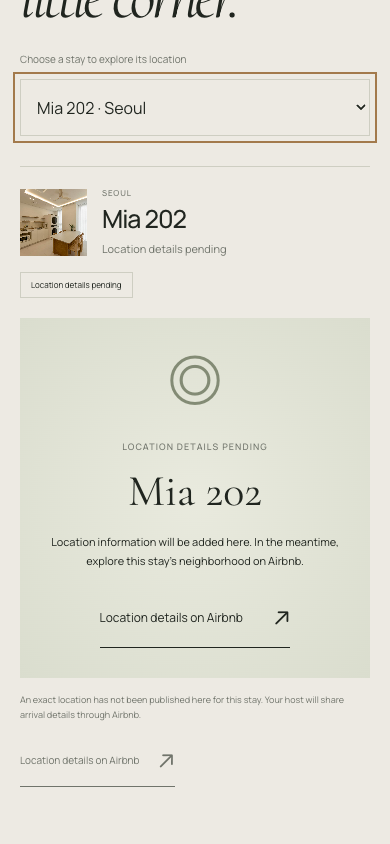
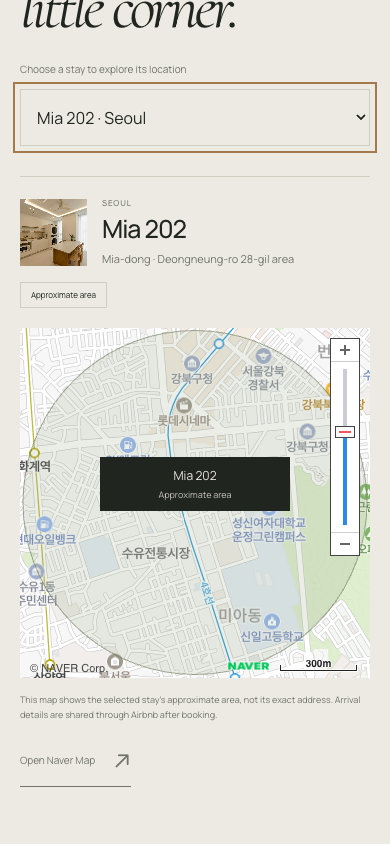
지도

diff --git a/sample-02-serenity/content.js b/sample-02-serenity/content.js
@@ -116,7 +116,15 @@ window.SERENITY = {
           "comfort201Copy"
         ]
       ],
-      "location": null
+      "location": {
+        "precision": "area",
+        "latitude": 37.6324,
+        "longitude": 127.0244,
+        "zoom": 15,
+        "area": "miaTemporaryArea",
+        "description": "miaTemporaryDescription",
+        "naverUrl": "https://map.naver.com/p/search/%EC%84%9C%EC%9A%B8%ED%8A%B9%EB%B3%84%EC%8B%9C%20%EA%B0%95%EB%B6%81%EA%B5%AC%20%EB%8D%95%EB%A6%89%EB%A1%9C28%EA%B8%B8"
+      }
     },
     {
       "id": "mia202",
@@ -202,7 +210,15 @@ window.SERENITY = {
           "comfort202Copy"
         ]
       ],
-      "location": null
+      "location": {
+        "precision": "area",
+        "latitude": 37.6324,
+        "longitude": 127.0244,
+        "zoom": 15,
+        "area": "miaTemporaryArea",
+        "description": "miaTemporaryDescription",
+        "naverUrl": "https://map.naver.com/p/search/%EC%84%9C%EC%9A%B8%ED%8A%B9%EB%B3%84%EC%8B%9C%20%EA%B0%95%EB%B6%81%EA%B5%AC%20%EB%8D%95%EB%A6%89%EB%A1%9C28%EA%B8%B8"
+      }
     },
     {
       "id": "busan",
@@ -393,11 +409,14 @@ window.SERENITY = {
       "locationPending": "Location details pending",
       "locationSoon": "Location to be announced",
       "mapPending": "Location information will be added here. In the meantime, explore this stay’s neighborhood on Airbnb.",
-      "mapSoon": "A new address, a new chapter. The location will be revealed with our opening details.",
+      "mapSoon": "Our Busan stay is getting ready. The location and opening details will be shared here when ready.",
       "mapExactNote": "This map shows the selected stay’s location. Check your Airbnb arrival instructions for entrance details.",
       "mapAreaNote": "This map shows the selected stay’s approximate area, not its exact address. Arrival details are shared through Airbnb after booking.",
       "mapPendingNote": "An exact location has not been published here for this stay. Your host will share arrival details through Airbnb.",
-      "mapAirbnb": "Location details on Airbnb"
+      "mapAirbnb": "Location details on Airbnb",
+      "miaTemporaryArea": "Mia-dong · Deongneung-ro 28-gil area",
+      "miaTemporaryDescription": "A temporary neighborhood guide around Deongneung-ro 28-gil in Mia-dong, Seoul. The map shows an approximate area; your exact arrival details will be shared through Airbnb.",
+      "mapSoonTitle": "Coming soon"
     },
     "zh": {
       "pageTitle": "Serenity Stay — 感受韩国的慢时光",
@@ -573,11 +592,14 @@ window.SERENITY = {
       "locationPending": "位置信息待更新",
       "locationSoon": "位置尚未公布",
       "mapPending": "位置信息将更新至此。您可以先在此房源的 Airbnb 页面了解周边区域。",
-      "mapSoon": "新的地址，新的故事。位置将随开业信息一同公布。",
+      "mapSoon": "我们的釜山住宿正在筹备中。具体位置与开业信息将于准备就绪后在此公布。",
       "mapExactNote": "地图显示所选房源的位置。入口等详细信息请查看 Airbnb 入住指引。",
       "mapAreaNote": "地图显示所选房源的大致区域，并非准确地址。预订后，房东会通过 Airbnb 提供抵达信息。",
       "mapPendingNote": "此房源尚未在这里公布准确位置。房东将通过 Airbnb 提供入住信息。",
-      "mapAirbnb": "在 Airbnb 查看位置"
+      "mapAirbnb": "在 Airbnb 查看位置",
+      "miaTemporaryArea": "弥阿洞 · Deongneung-ro 28-gil 周边",
+      "miaTemporaryDescription": "暂以首尔弥阿洞 Deongneung-ro 28-gil 周边作为区域参考。地图显示大致范围，准确入住地址将通过 Airbnb 提供。",
+      "mapSoonTitle": "即将启幕"
     },
     "ko": {
       "pageTitle": "Serenity Stay — 한국에서 만나는 느린 쉼",
@@ -753,11 +775,14 @@ window.SERENITY = {
       "locationPending": "위치 정보 준비 중",
       "locationSoon": "위치 공개 예정",
       "mapPending": "위치 정보를 준비하고 있습니다. 먼저 이 숙소의 에어비앤비에서 주변 지역을 확인해 주세요.",
-      "mapSoon": "새로운 주소에서 시작될 이야기. 오픈 소식과 함께 위치를 공개할 예정입니다.",
+      "mapSoon": "부산 숙소는 현재 오픈을 준비하고 있습니다. 준비가 완료되면 위치와 오픈 소식을 이곳에서 안내하겠습니다.",
       "mapExactNote": "선택한 숙소의 위치입니다. 출입구 등 자세한 도착 안내는 에어비앤비 메시지를 확인해 주세요.",
       "mapAreaNote": "선택한 숙소의 대략적인 주변 지역이며 정확한 주소는 아닙니다. 도착 안내는 예약 후 에어비앤비를 통해 전달됩니다.",
       "mapPendingNote": "이 숙소의 정확한 위치는 아직 이곳에 공개되지 않았습니다. 도착 안내는 호스트가 에어비앤비로 전달합니다.",
-      "mapAirbnb": "에어비앤비에서 위치 확인"
+      "mapAirbnb": "에어비앤비에서 위치 확인",
+      "miaTemporaryArea": "미아동 · 덕릉로28길 주변",
+      "miaTemporaryDescription": "서울 미아동 덕릉로28길 주변을 임시로 안내합니다. 지도는 대략적인 지역이며, 정확한 도착 정보는 에어비앤비를 통해 전달됩니다.",
+      "mapSoonTitle": "오픈 준비 중"
     }
   }
 };

diff --git a/sample-02-serenity/app.js b/sample-02-serenity/app.js
@@ -84,7 +84,7 @@
     }
   });
   window.addEventListener('scroll', queueFrame, { passive: true });
-  window.addEventListener('resize', queueFrame, { passive: true });
+  window.addEventListener('resize', () => { resizeMap(); queueFrame(); }, { passive: true });
   document.fonts.ready.then(queueFrame);
   document.documentElement.classList.add('motion-ready');
 
@@ -153,7 +153,7 @@
     $('#gallery-thumbs').innerHTML = stay.photos.map(([src, caption], index) => `<button data-gallery-photo="${index}" aria-label="${escape(`${index + 1}. ${t(caption)}`)}" aria-pressed="${index === photoIndex}"><img src="${escape(src)}" alt="" loading="lazy" width="90" height="70"></button>`).join('');
     $('#dialog-book').href = stay.airbnb;
     $('#dialog-area-description').textContent = t(stay.location?.description || 'areaDescription');
-    $('#dialog-address').textContent = stay.location?.address || t(stay.city);
+    $('#dialog-address').textContent = stay.location?.address || (stay.location?.area ? t(stay.location.area) : t(stay.city));
     $('#dialog-location-note').textContent = mapNoteFor(stay);
     renderGallery();
   }
@@ -327,10 +327,19 @@
     $('#map-stay').value = selectedMapStayId;
     renderMap();
   }
+  function resizeMap() {
+    const frame = $('#naver-map');
+    if (!naverMap || frame.hidden || mapState !== 'ready') return;
+    // setSize writes pixel dimensions inline. Measure the CSS layout on every resize.
+    frame.style.removeProperty('width');
+    frame.style.removeProperty('height');
+    naverMap.setSize(new window.naver.maps.Size(frame.clientWidth, frame.clientHeight));
+  }
   function renderMap() {
     const stay = site.stays.find((item) => item.id === selectedMapStayId);
     if (!stay) return;
     const located = hasLocation(stay);
+    const comingSoon = stay.status === 'soon' && !located;
     const location = stay.location;
     const name = stay.city === 'busan' && stay.id === 'busan' ? t('busan') : stay.name;
     const precision = located ? (location.precision === 'area' ? 'locationArea' : 'locationExact') : (stay.status === 'soon' ? 'locationSoon' : 'locationPending');
@@ -341,7 +350,8 @@
     $('#map-address').textContent = location?.address || (location?.area ? t(location.area) : t(precision));
     $('#map-precision').textContent = `${stay.status === 'soon' ? `${t('comingSoon')} · ` : ''}${t(precision)}`;
     $('#map-fallback-label').textContent = t(precision);
-    $('#map-fallback-title').textContent = name;
+    $('#map-fallback-title').textContent = comingSoon ? t('mapSoonTitle') : name;
+    $('#map-fallback').classList.toggle('is-coming-soon', comingSoon);
     $('#map-note').textContent = mapNoteFor(stay);
     $('#naver-map').setAttribute('aria-label', `${name} · ${t('mapRegion')} · ${t(precision)}`);
     const url = location?.naverUrl || stay.airbnb;
@@ -368,9 +378,7 @@
         mapMarker = new n.Marker({ position: center });
         mapArea = new n.Circle({ center, radius: 650, strokeColor: '#737e60', strokeWeight: 1, strokeOpacity: .65, fillColor: '#9ba889', fillOpacity: .2 });
       } else {
-        // A hidden map may have been resized while a location was pending.
-        const frame = $('#naver-map');
-        naverMap.setSize(new n.Size(frame.clientWidth, frame.clientHeight));
+        resizeMap();
       }
       naverMap.updateBy(center, zoom);
       mapMarker.setOptions({ position: center, title: `${name} · ${t(precision)}`, icon: { content: `<div class="naver-area-label">${escape(name)}<small>${escape(t(precision))}</small></div>`, anchor: new n.Point(95, 46) } });

diff --git a/sample-02-serenity/styles.css b/sample-02-serenity/styles.css
@@ -221,6 +221,10 @@ em { font-family:var(--serif); font-weight:400; }
 .map-fallback>.eyebrow { font-size:9px; color:var(--muted); }
 .map-fallback h3 { font:400 50px/1.1 var(--serif); margin-top:12px; }
 .map-fallback>p:not(.eyebrow) { font-size:12px; margin:18px 0; max-width:430px; }
+.map-fallback.is-coming-soon { background:var(--dark); color:var(--paper); }
+.map-fallback.is-coming-soon>.eyebrow { color:var(--cream); }
+.map-fallback.is-coming-soon .map-symbol { color:#cfaa78; }
+.map-fallback.is-coming-soon h3 { font-size:clamp(44px,6vw,76px); }
 .map-caption { display:flex; justify-content:space-between; align-items:center; gap:30px; padding-top:19px; font-size:10px; color:var(--muted); }
 .map-caption>.text-link { flex-shrink:0; font-size:10px; gap:18px; padding-block:5px; }
 .map-caption>p { max-width:780px; }

diff --git a/sample-02-serenity/index.html b/sample-02-serenity/index.html
@@ -11,10 +11,10 @@
   <meta property="og:type" content="website">
   <link rel="icon" type="image/png" href="assets/logo-wood.png">
   <link rel="stylesheet" href="assets/fonts.css">
-  <link rel="stylesheet" href="styles.css?v=4">
+  <link rel="stylesheet" href="styles.css?v=5.1">
   <link rel="preload" as="image" href="assets/mia-201-02.jpg" fetchpriority="high">
-  <script src="content.js?v=4" defer></script>
-  <script src="app.js?v=4" defer></script>
+  <script src="content.js?v=5.1" defer></script>
+  <script src="app.js?v=5.1" defer></script>
 </head>
 <body>
   <a class="skip-link" href="#main" data-i18n="skip">Skip to content</a>

diff --git a/sample-02-serenity/README.md b/sample-02-serenity/README.md
@@ -77,7 +77,11 @@ hero: {
 
 `map`에는 제공된 공개 Client ID만 공통으로 남겨두었습니다. 기존의 단일 미아역 좌표와 모든 숙소가 같은 동네라는 설명을 삭제했습니다. 주소·좌표·링크는 각각 `stays[].location`에서 관리합니다.
 
-**현재 실제 데이터는 3곳 모두 `location: null`입니다.** 각 숙소의 정확한 주소 또는 네이버 지도 링크를 확인하기 전에는 임의 좌표를 넣지 않습니다. 서울 숙소는 해당 Airbnb의 위치 정보 링크를 제공하고, 부산은 위치 공개 예정으로 표시합니다.
+**현재 서울 두 숙소는 사용자가 지정한 참고 주소 주변을 임시 지역으로 표시합니다.** 기준은 서울특별시 강북구 덕릉로28길 52-4(미아동)이며, 좌표는 약 `37.6324, 127.0244`, `precision: 'area'`입니다. 두 숙소의 정확한 건물 위치를 의미하지 않습니다. 각각 별도 `location` 객체를 유지하므로 추후 개별 위치로 변경할 수 있습니다. 외부 네이버 링크는 덕릉로28길 주변 검색입니다.
+
+좌표 참고: [공개 주소 지도](https://findby.co.kr/details/01128-113054124037-st-652b0c498c641f9e388b4c80)의 해당 주소 중심 좌표를 반올림했습니다. 실제 숙소명이나 주소로 다른 시설 정보를 가져오지 않았습니다.
+
+부산은 `location: null`을 유지하며, 지도 자리에는 큰 Coming soon / 即将启幕 / 오픈 준비 중 제목과 위치 공개 예정 안내를 표시합니다. 지도·예약·Airbnb 위치 링크는 표시하지 않습니다.
 
 숙소의 위치가 확인되면 다음 형식을 채웁니다. `null`을 실제 확인된 숫자 좌표로 교체하기 전까지는 지도를 표시하지 않습니다.
 
@@ -97,12 +101,12 @@ location: {
 - `location: null` 또는 유효하지 않은 좌표: 이전 숙소의 지도·마커를 숨기고 현재 숙소 안내를 표시합니다.
 - 주소·네이버 링크만 있고 좌표가 없는 경우: 주소와 외부 링크는 사용할 수 있으며 내장 지도는 대기 상태입니다.
 - 지도 위의 숙소 선택, 이름·주소·링크, 상세 창 이용 안내는 같은 숙소 데이터를 사용합니다. 언어를 바꿔도 선택한 숙소가 유지됩니다.
-- SDK와 지도 인스턴스는 하나만 사용하고, 선택에 따라 중심·마커·영역을 갱신합니다. SDK 로딩 중 선택을 바꿔도 마지막 선택이 적용됩니다.
+- SDK와 지도 인스턴스는 하나만 사용하고, 선택에 따라 중심·마커·영역을 갱신합니다. 화면 크기 변경과 숨김 후 복귀 시 SDK의 픽셀 크기를 다시 계산하여 모바일 너비가 데스크톱에 남지 않도록 처리합니다. SDK 로딩 중 선택을 바꿔도 마지막 선택이 적용됩니다.
 - 인증·네트워크 오류·12초 시간 초과 시에도 선택한 숙소의 네이버 링크 또는 Airbnb 링크를 제공합니다. 위치가 없는 숙소를 대신 임의 지역에 표시하지 않습니다.
 
-공식 JavaScript v3 SDK의 `ncpKeyId` 방식으로 로드합니다. 유효한 좌표가 있는 숙소를 선택하거나 해당 지도 영역에 가까워질 때 연결합니다. 공개 주소를 확인하지 못한 현재 데이터에서는 불필요한 SDK 연결을 하지 않습니다.
+공식 JavaScript v3 SDK의 `ncpKeyId` 방식으로 로드합니다. 유효한 좌표가 있는 숙소를 선택하거나 해당 지도 영역에 가까워질 때 연결합니다. 위치가 없는 부산만 선택한 경우에는 불필요한 SDK 연결을 하지 않습니다.
 
-제공된 ID는 이전 미아역 주변 지도 검사에서 실제 타일 로딩을 확인했습니다. 숙소별 선택 검사는 브라우저 안에만 주입한 서로 다른 테스트 좌표로 진행합니다. 테스트 좌표와 주소는 실제 숙소 데이터나 미리보기에 저장하지 않습니다.
+제공된 ID는 이전 미아역 주변 지도 검사에서 실제 타일 로딩을 확인했습니다. 숙소별 선택 검사는 브라우저 안에만 주입한 서로 다른 테스트 좌표로 진행합니다. 테스트 좌표와 주소는 실제 숙소 데이터나 미리보기에 저장하지 않습니다. 현재 서울 숙소의 임시 지역은 사용자가 지정한 주소 주변입니다.
 
 다른 도메인에서 인증 오류가 발생한다면 NAVER Cloud의 Dynamic Map 사용 여부와 등록한 Web 서비스 URL을 확인하세요. 로컬 주소는 `http://127.0.0.1:4173`입니다. 콘솔 설정과 공개 Client ID는 변경하지 않았습니다.
 
